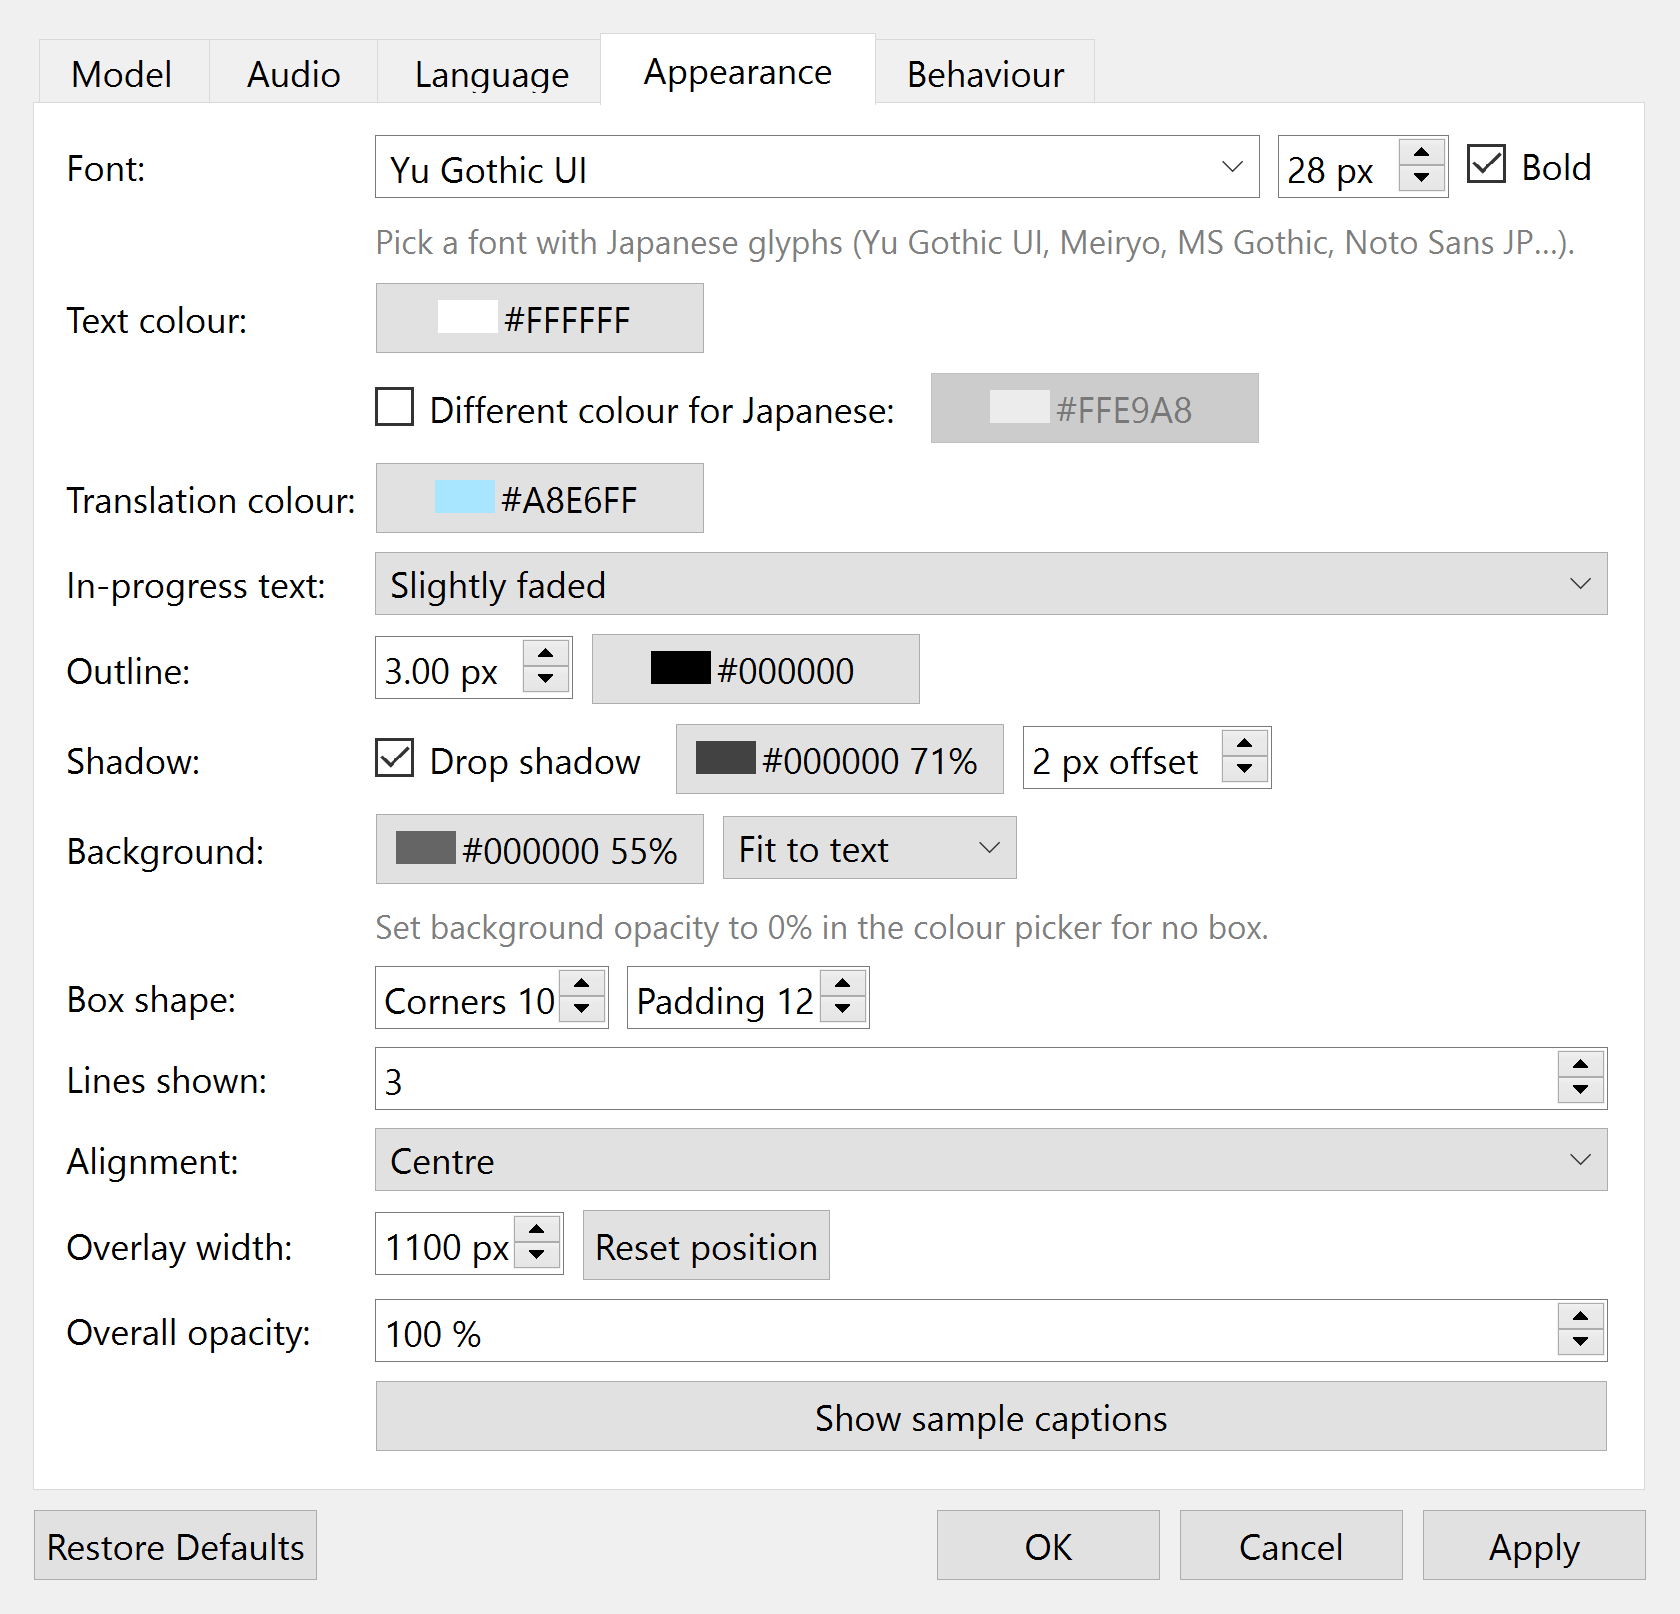
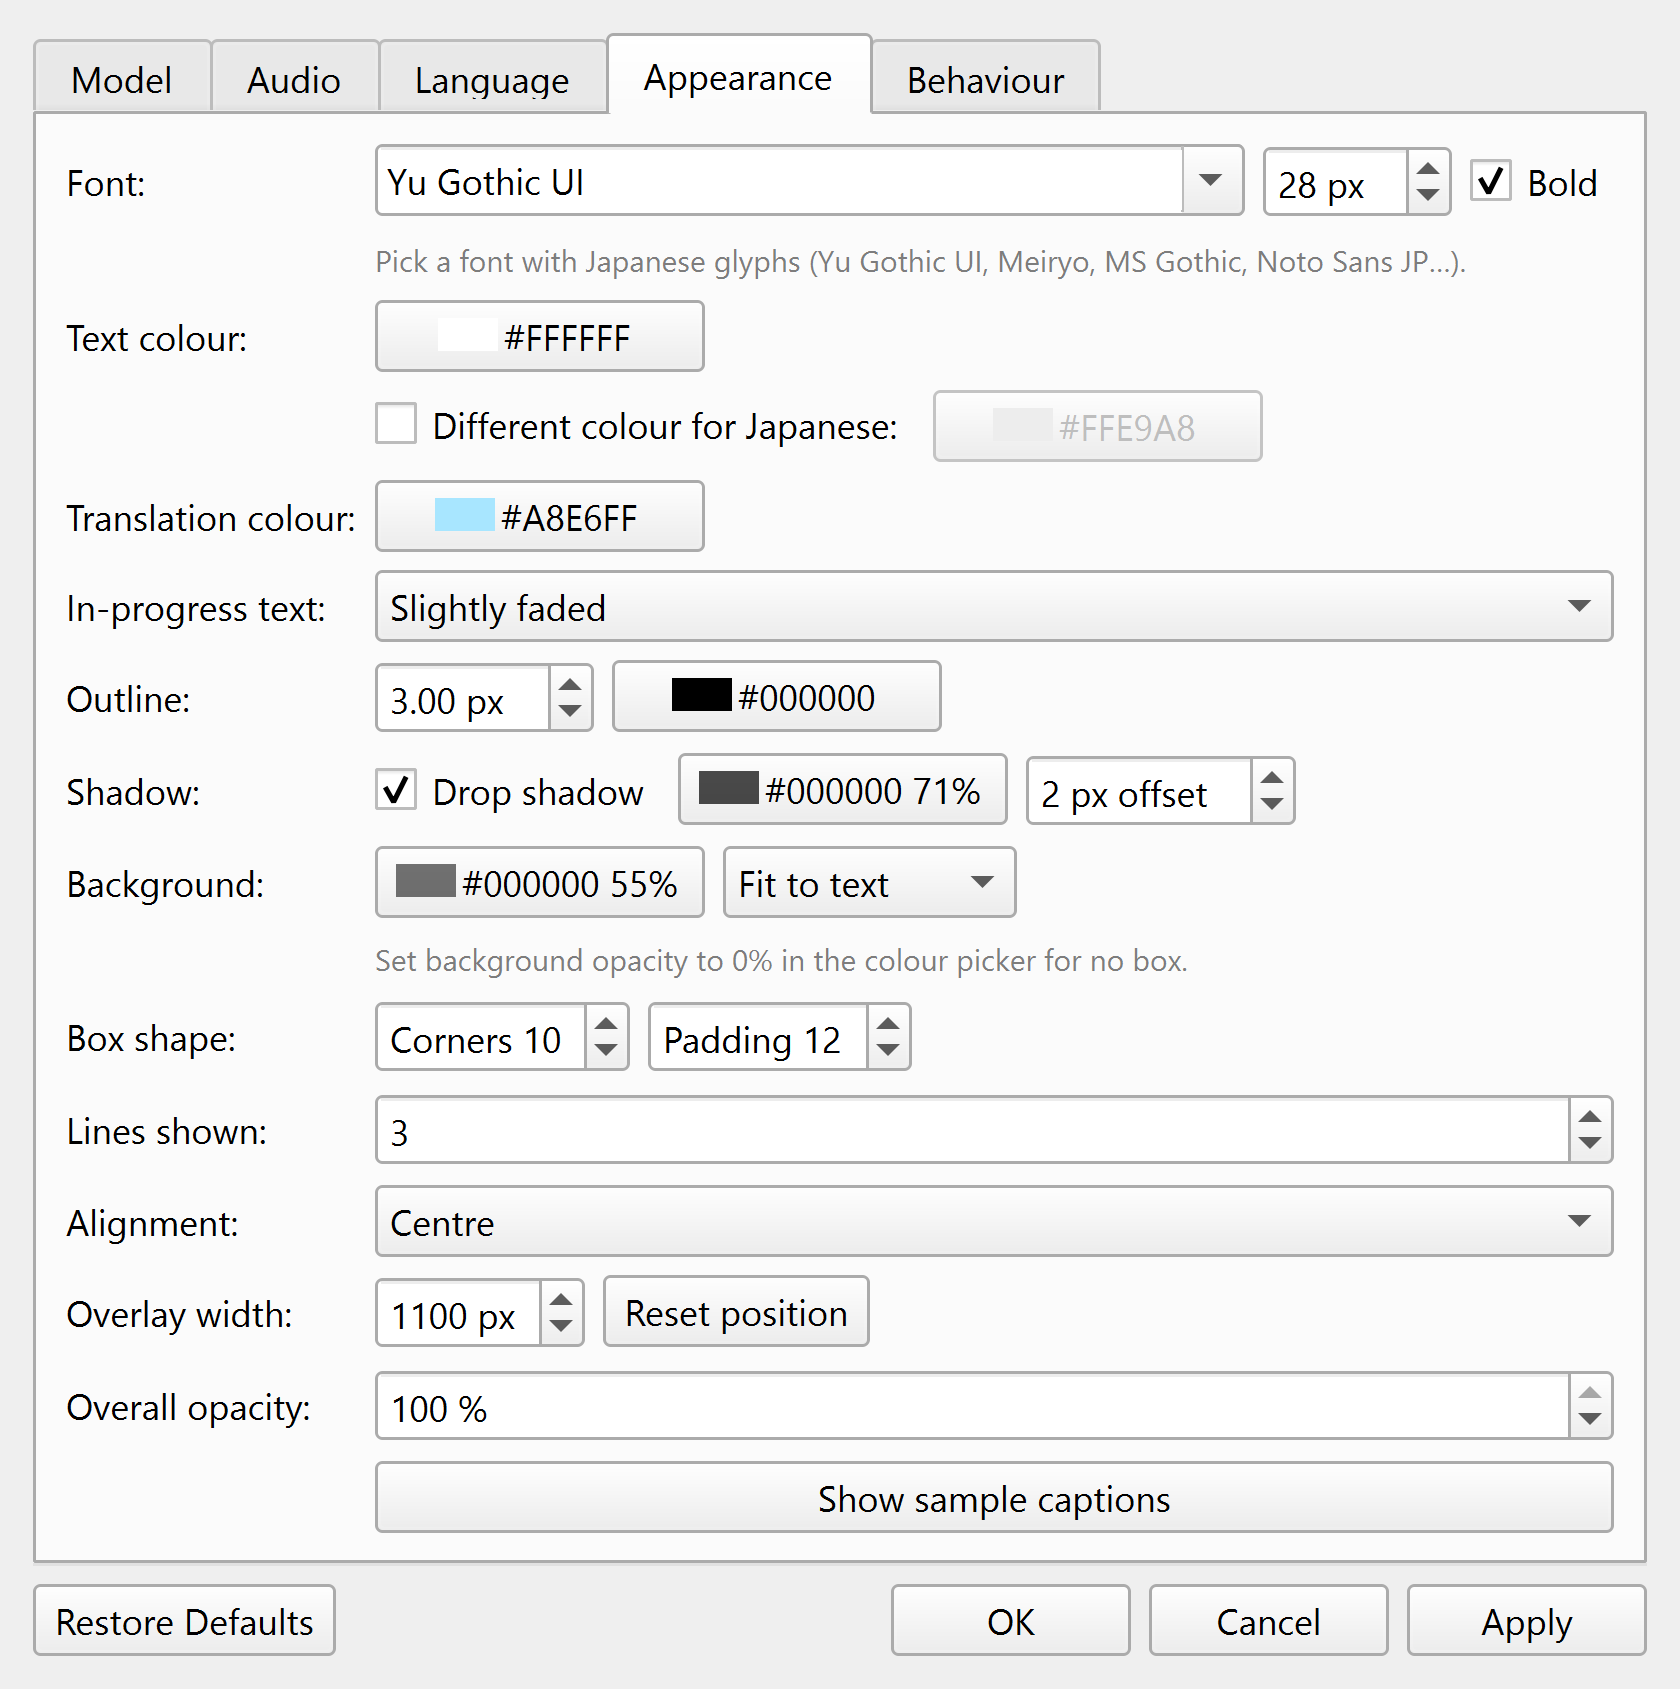
Follow the Windows light/dark theme
Qt's default windowsvista style is always light. Use the native windows11
style on Windows 11 and Fusion with explicit light/dark palettes on Windows 10
(Windows' own dark palette paints unchecked checkboxes in the accent colour).
Switches live with the system setting; Settings > Behaviour > App theme can
force Light or Dark.

diff --git a/livesubs/app.py b/livesubs/app.py
@@ -9,8 +9,8 @@ from datetime import datetime
 from pathlib import Path
 
 from PySide6.QtCore import QObject, QPoint, QRectF, Qt
-from PySide6.QtGui import QAction, QActionGroup, QColor, QFont, QIcon, QPainter, QPixmap
-from PySide6.QtWidgets import (QApplication, QDialog, QHBoxLayout, QMenu, QPlainTextEdit,
+from PySide6.QtGui import QAction, QActionGroup, QColor, QFont, QIcon, QPainter, QPalette, QPixmap
+from PySide6.QtWidgets import (QApplication, QDialog, QHBoxLayout, QMenu, QPlainTextEdit, QStyleFactory,
                                QPushButton, QSystemTrayIcon, QVBoxLayout)
 
 from .config import APP_ID, APP_NAME, ENGINE_KEYS, FROZEN, MODELS, PROJECT_DIR, Config
@@ -103,6 +103,7 @@ class Controller(QObject):
         self.hotkeys.triggered.connect(self._on_hotkey)
         self.hotkeys.failed.connect(self._on_hotkey_failed)
         self._apply_hotkeys()
+        apply_theme(self.cfg.ui_theme)
 
         self.tray = QSystemTrayIcon(make_icon("stopped"))
         self.menu = QMenu()
@@ -389,6 +390,8 @@ class Controller(QObject):
         if (old.hotkey_pause, old.hotkey_overlay, old.hotkey_lock) != \
                 (cfg.hotkey_pause, cfg.hotkey_overlay, cfg.hotkey_lock):
             self._apply_hotkeys()
+        if old.ui_theme != cfg.ui_theme:
+            apply_theme(cfg.ui_theme)
         if old.launch_at_login != cfg.launch_at_login:
             self._set_launch_at_login(cfg.launch_at_login)
         if old.save_transcript != cfg.save_transcript or old.transcript_dir != cfg.transcript_dir:
@@ -445,6 +448,68 @@ def _setup_cuda_dlls() -> None:
                 os.environ["PATH"] = str(b) + os.pathsep + os.environ.get("PATH", "")
 
 
+def _dark_palette(accent: QColor) -> QPalette:
+    p = QPalette()
+    roles = {
+        QPalette.Window: "#202020", QPalette.WindowText: "#ffffff", QPalette.Base: "#2b2b2b",
+        QPalette.AlternateBase: "#323232", QPalette.Text: "#ffffff", QPalette.Button: "#2d2d2d",
+        QPalette.ButtonText: "#ffffff", QPalette.BrightText: "#ff6b6b", QPalette.Light: "#3c3c3c",
+        QPalette.Midlight: "#333333", QPalette.Mid: "#262626", QPalette.Dark: "#1a1a1a",
+        QPalette.Shadow: "#000000", QPalette.ToolTipBase: "#2b2b2b", QPalette.ToolTipText: "#ffffff",
+        QPalette.PlaceholderText: "#9d9d9d", QPalette.HighlightedText: "#ffffff",
+        QPalette.Link: "#6cb6ff", QPalette.LinkVisited: "#b48ead",
+    }
+    for role, c in roles.items():
+        p.setColor(role, QColor(c))
+    p.setColor(QPalette.Highlight, accent)
+    p.setColor(QPalette.Accent, accent)
+    for role in (QPalette.WindowText, QPalette.Text, QPalette.ButtonText):
+        p.setColor(QPalette.Disabled, role, QColor("#7a7a7a"))
+    p.setColor(QPalette.Disabled, QPalette.Base, QColor("#252525"))
+    p.setColor(QPalette.Disabled, QPalette.Button, QColor("#262626"))
+    p.setColor(QPalette.Disabled, QPalette.Highlight, QColor("#4a4a4a"))
+    return p
+
+
+def _refresh_palette() -> None:
+    """Apply a complete light/dark palette (Fusion on Windows 10).
+
+    The palette Windows hands Qt in dark mode is inconsistent: its per-class
+    checkbox palette paints unchecked boxes in the accent colour, and placeholder
+    text is pure white. Setting our own palette for every class avoids both.
+    """
+    app = QApplication.instance()
+    if app.style().name().lower() != "fusion":
+        return  # the native windows11 style handles light/dark itself
+    dark = app.styleHints().colorScheme() == Qt.ColorScheme.Dark
+    accent = QColor(app.style().standardPalette().color(QPalette.Highlight))
+    pal = _dark_palette(QColor("#0078d4") if not accent.isValid() else accent) if dark         else app.style().standardPalette()
+    app.setPalette(pal)
+    for cls in ("QCheckBox", "QRadioButton", "QAbstractButton", "QMenu", "QComboBox",
+                "QAbstractItemView", "QLineEdit", "QTextEdit", "QPlainTextEdit", "QHeaderView"):
+        app.setPalette(pal, cls)
+
+
+def setup_style(app: QApplication) -> None:
+    """Use a style that follows the Windows light/dark setting, live.
+
+    Qt's default 'windowsvista' style is always light. Windows 11 gets the native
+    'windows11' style; Windows 10 gets Fusion with our own palettes.
+    """
+    win11 = sys.getwindowsversion().build >= 22000
+    keys = [k.lower() for k in QStyleFactory.keys()]
+    app.setStyle("windows11" if win11 and "windows11" in keys else "Fusion")
+    app.styleHints().colorSchemeChanged.connect(lambda *_: _refresh_palette())
+    _refresh_palette()
+
+
+def apply_theme(theme: str) -> None:
+    """'system' follows Windows; 'light'/'dark' override it."""
+    scheme = {"light": Qt.ColorScheme.Light, "dark": Qt.ColorScheme.Dark}.get(theme, Qt.ColorScheme.Unknown)
+    QApplication.styleHints().setColorScheme(scheme)
+    _refresh_palette()
+
+
 def main() -> int:
     os.environ.setdefault("HF_HUB_DISABLE_SYMLINKS_WARNING", "1")
     _setup_cuda_dlls()
@@ -461,6 +526,7 @@ def main() -> int:
     app = QApplication(sys.argv)
     app.setApplicationName(APP_NAME)
     app.setQuitOnLastWindowClosed(False)
+    setup_style(app)
     app.setWindowIcon(make_icon("listening"))
     if not QSystemTrayIcon.isSystemTrayAvailable():
         print("System tray not available")

diff --git a/livesubs/settings_dialog.py b/livesubs/settings_dialog.py
@@ -6,7 +6,7 @@ import threading
 from dataclasses import fields
 
 from PySide6.QtCore import Qt, Signal
-from PySide6.QtGui import QColor, QFont, QIcon, QKeySequence, QPixmap
+from PySide6.QtGui import QColor, QFont, QIcon, QKeySequence, QPalette, QPixmap
 from PySide6.QtWidgets import (QCheckBox, QColorDialog, QComboBox, QDialog, QDialogButtonBox,
                                QDoubleSpinBox, QFileDialog, QFontComboBox, QFormLayout,
                                QHBoxLayout, QKeySequenceEdit, QLabel, QLineEdit,
@@ -56,7 +56,11 @@ def _combo(items: list[tuple[str, str]]) -> QComboBox:
 def _hint(text: str) -> QLabel:
     lab = QLabel(text)
     lab.setWordWrap(True)
-    lab.setStyleSheet("color: palette(placeholder-text); font-size: 11px;")
+    # Palette role (not a stylesheet colour) so it follows light/dark theme switches live.
+    lab.setForegroundRole(QPalette.PlaceholderText)
+    f = lab.font()
+    f.setPointSizeF(f.pointSizeF() * 0.85)
+    lab.setFont(f)
     return lab
 
 
@@ -392,6 +396,8 @@ class SettingsDialog(QDialog):
         ah.setSpecialValueText("Never")
         f.addRow("Clear captions after silence:", ah)
         f.addRow("", self._bind("locked", QCheckBox("Lock overlay (click-through, cannot be moved)")))
+        f.addRow("App theme:", self._bind("ui_theme", _combo([
+            ("system", "Match Windows"), ("light", "Light"), ("dark", "Dark")])))
         f.addRow("", self._bind("start_on_launch", QCheckBox("Start captioning when the app launches")))
         f.addRow("", self._bind("launch_at_login", QCheckBox("Launch when I sign in to Windows")))
         self.save_tr = self._bind("save_transcript", QCheckBox("Save transcripts to text files"))

diff --git a/tools/make_screenshots.py b/tools/make_screenshots.py
@@ -75,6 +75,8 @@ def overlay_shot(cfg: Config, name: str, lines, partial=None, w=1280, h=520) -> 
 def main() -> None:
     DOCS.mkdir(exist_ok=True)
     app = QApplication(sys.argv)
+    app_mod.setup_style(app)
+    app_mod.apply_theme("light")  # consistent README images whatever the Windows theme
 
     cfg = Config()
     cfg.locked = True             # no dashed "unlocked" frame

diff --git a/livesubs/config.py b/livesubs/config.py
@@ -110,6 +110,7 @@ class Config:
     # --- Behaviour ---
     auto_hide_s: float = 6.0        # 0 = never clear
     start_on_launch: bool = True
+    ui_theme: str = "system"        # system | light | dark (settings window, menus)
     launch_at_login: bool = False
     save_transcript: bool = False
     transcript_dir: str = DEFAULT_TRANSCRIPT_DIR

diff --git a/README.md b/README.md
@@ -82,7 +82,8 @@ Device = *Auto* then uses the GPU. If the GPU fails, the app falls back to CPU a
   (e.g. 「ご視聴ありがとうございました」). The list is editable.
 
 Other options include font, size, bold, text/Japanese/translation colours, outline, shadow,
-background colour and opacity, box shape, lines shown, alignment, width, auto-clear delay,
+background colour and opacity, box shape, lines shown, alignment, width, auto-clear delay, app theme
+(follows Windows light/dark automatically, or force Light/Dark),
 transcript saving, caption history window, launch at Windows sign-in, and the global hotkeys.
 
 ## Screenshots
